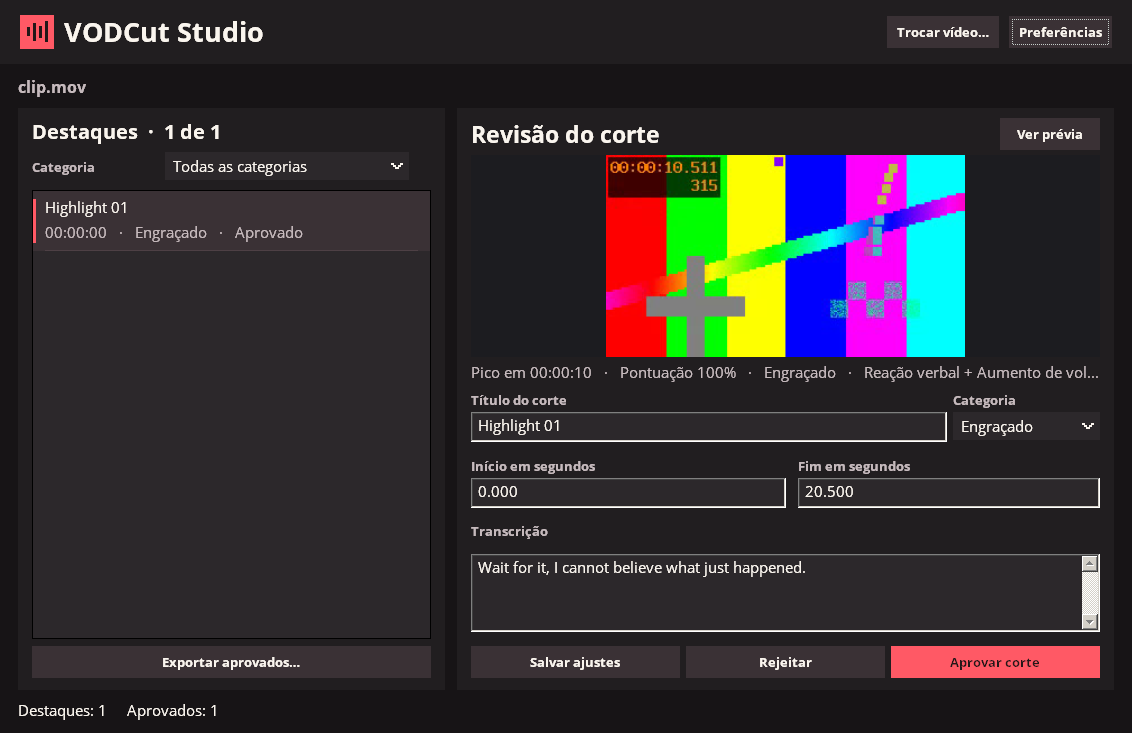
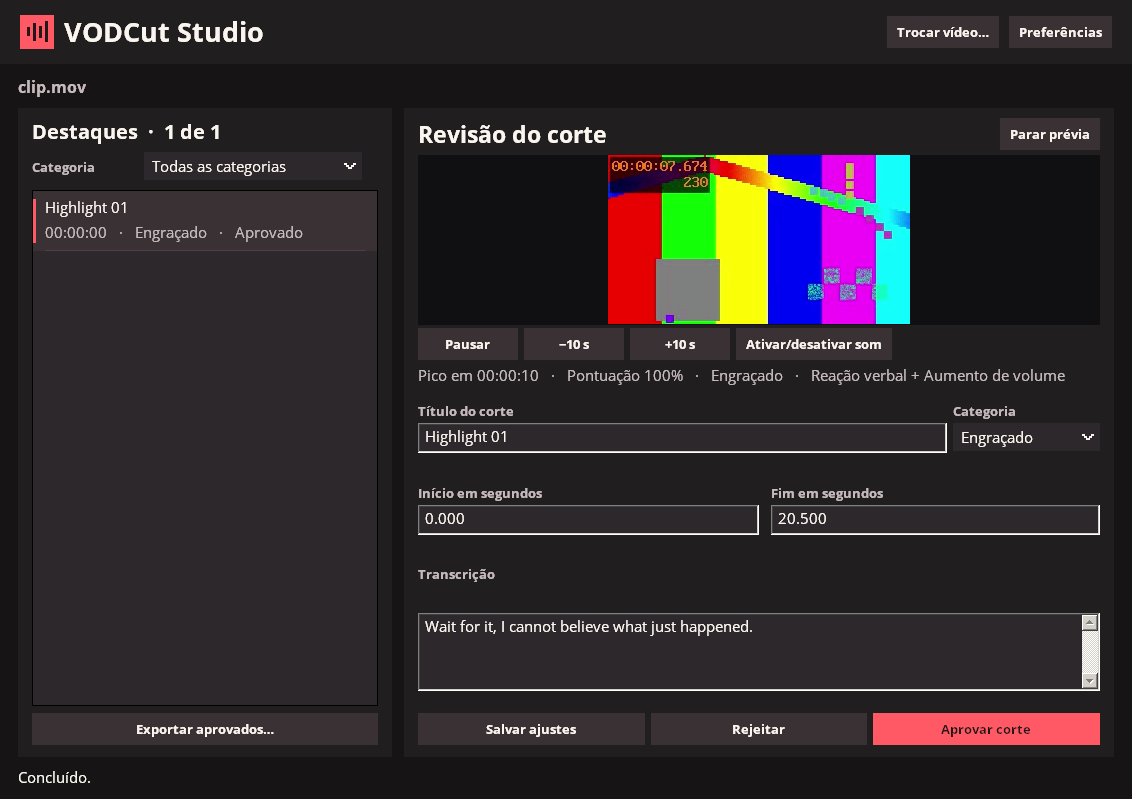
Size embedded playback after the panel is laid out

diff --git a/launcher/player.go b/launcher/player.go
@@ -146,12 +146,12 @@ func (u *desk) portablePreview(ctx context.Context, frame, panel *walk.Composite
 		u.error(err)
 		return
 	}
-	initialSize := u.videoBounds(frame)
+
 	caption := fmt.Sprintf("VODCut-%d-%d", os.Getpid(), time.Now().UnixNano())
 	go func() {
 		player, err := playerPath()
 		if err == nil && ctx.Err() == nil {
-			args := []string{"-loglevel", "error", "-autoexit", "-noborder", "-x", strconv.Itoa(max(1, initialSize.Width)), "-y", strconv.Itoa(max(1, initialSize.Height)), "-left", "-32000", "-top", "-32000", "-window_title", caption, "-ss", fmt.Sprintf("%.3f", offset), path}
+			args := []string{"-loglevel", "error", "-autoexit", "-noborder", "-left", "-32000", "-top", "-32000", "-window_title", caption, "-ss", fmt.Sprintf("%.3f", offset), path}
 			cmd := exec.CommandContext(ctx, player, args...)
 			cmd.SysProcAttr = &syscall.SysProcAttr{CreationFlags: windows.CREATE_NO_WINDOW}
 			var diagnostic bytes.Buffer
